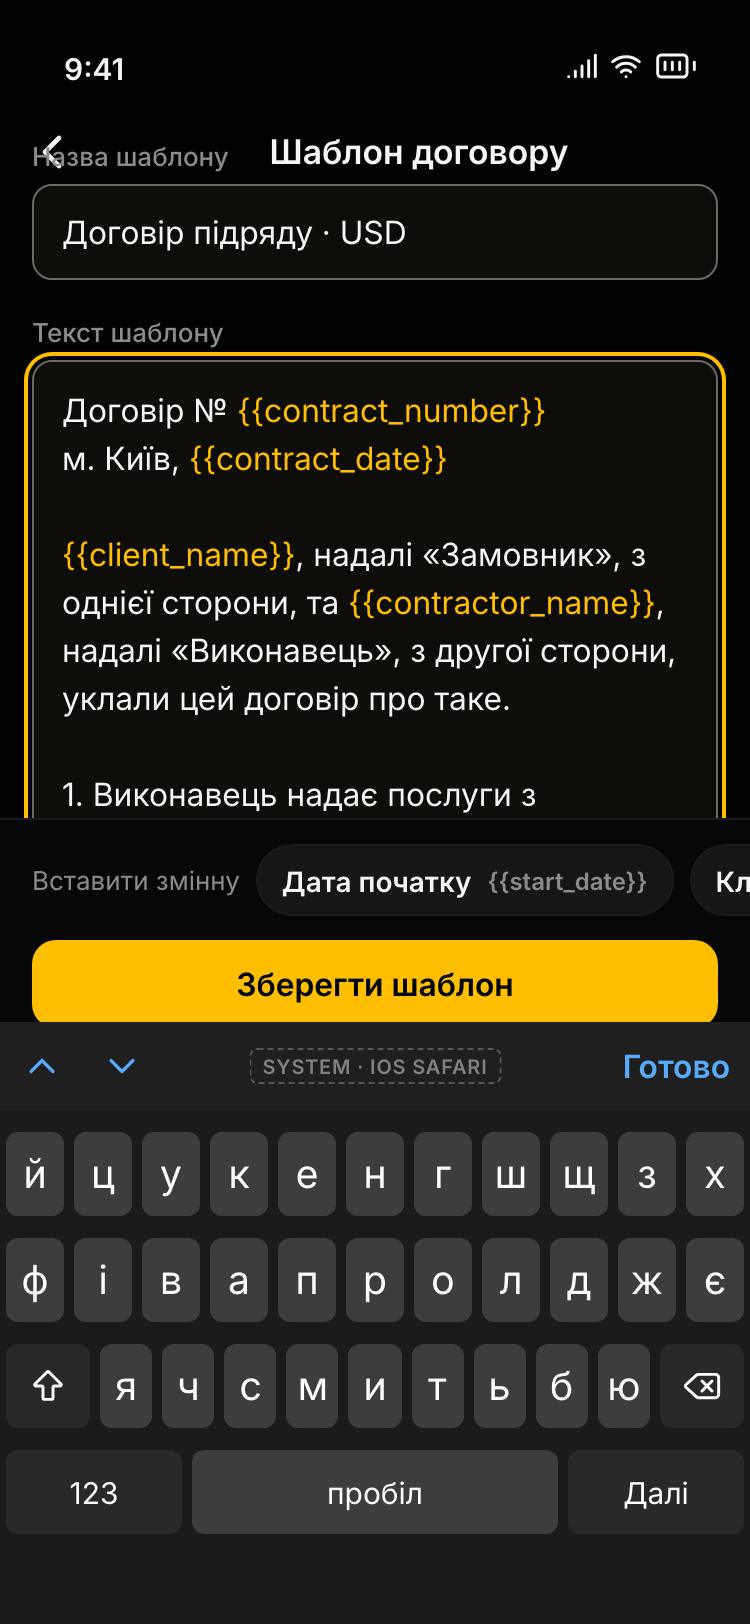
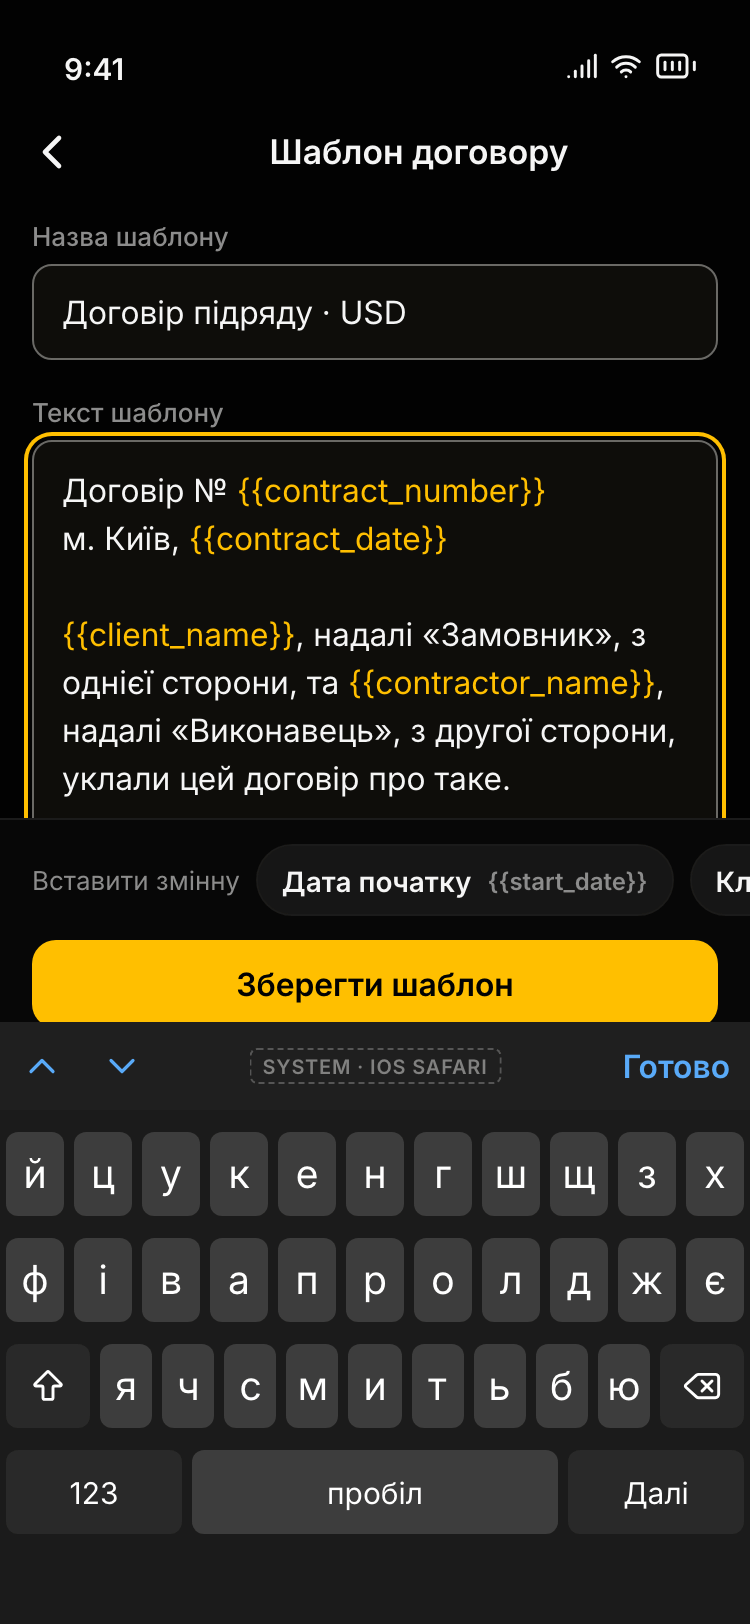
wip: design foundation v2 fix4 B — picker, text editor, defaults, parsing, tablet panel docs; medium sheet close

Changed region(s): [[0.0307, 0.0924, 0.9813, 0.5234], [0.46, 0.1232, 0.552, 0.1539]]

diff --git a/docs/design/screens/_foundation/primitives-v2.md b/docs/design/screens/_foundation/primitives-v2.md
@@ -21,25 +21,27 @@
 
 ## 1. Component map
 
-| Primitive                 | Build on                                                    | New?                         | Frames                                                                                                                                                                                                     |
-| ------------------------- | ----------------------------------------------------------- | ---------------------------- | ---------------------------------------------------------------------------------------------------------------------------------------------------------------------------------------------------------- |
-| Bottom sheet (detents)    | Base UI Drawer (approved stack change, spec §4)             | NEW `Sheet` mobile variant   | `sheet-medium-375`, `sheet-medium-320`, `sheet-large-375`                                                                                                                                                  |
-| Action sheet (confirm)    | Base UI Drawer + `ui/alert-dialog.tsx` semantics            | NEW variant                  | `sheet-confirm-375`                                                                                                                                                                                        |
-| Side panel                | `ui/sheet.tsx` (side = right)                               | restyle                      | `sheet-panel-768`, `sheet-panel-1024`, `sheet-panel-1440`                                                                                                                                                  |
-| Confirm dialog            | `ui/alert-dialog.tsx`                                       | restyle                      | `sheet-confirm-dialog-1024`                                                                                                                                                                                |
-| List row                  | —                                                           | NEW `ListRow`                | `listrow-variants-375`, `listrow-swipe-375`, `listrow-sticky-320`, `listrow-empty-error-375`, `listrow-768`, `listrow-1440`                                                                                |
-| Section header            | —                                                           | NEW `ListSection`            | `section-header-375`                                                                                                                                                                                       |
-| Table row states          | `ui/table.tsx`                                              | restyle                      | `listrow-table-desktop`                                                                                                                                                                                    |
-| Form field                | `ui/input.tsx`, `ui/label.tsx`                              | restyle (16 px, 48 h mobile) | `form-states-375`, `formfield-768`, `formfield-1440`                                                                                                                                                       |
-| Money field + receipt     | `ui/amount-currency-input.tsx`, `ui/image-upload-field.tsx` | restyle                      | `form-money-375`, `form-keyboard-375`, `sheet-large-375` (one canonical form: `assets/src/money-form.mjs`)                                                                                                 |
-| Segmented control, switch | `ui/segmented-toggle.tsx`, `ui/switch.tsx`                  | restyle                      | `form-money-375`, `sheet-medium-375`                                                                                                                                                                       |
-| Undo toast                | `ui/sonner.tsx`                                             | restyle                      | `toast-undo-375`, `toast-undo-768`, `toast-undo-1440`                                                                                                                                                      |
-| Save error (inline)       | `ui/alert.tsx`                                              | restyle                      | `toast-error-definite-375`, `toast-error-offline-375`, `toast-error-unknown-375`, `toast-error-unknown-list-375`                                                                                           |
-| Upload states + indicator | `ui/upload-progress.tsx`                                    | restyle + global pill (NEW)  | `upload-states-375`, `upload-pill-armed-375`, `upload-pill-saved-375`, `upload-pill-failed-375`, `toast-pill-stack-375`, `state-page-kill-375`, `listrow-draft-375`, `upload-pill-768`, `upload-pill-1440` |
-| Skeletons                 | `ui/skeleton.tsx`                                           | restyle                      | `skeleton-mobile-375`, `skeleton-768`, `skeleton-1440`, `skeleton-table-desktop`                                                                                                                           |
-| Charts                    | the existing chart library on `--chart-*` tokens            | restyle                      | `chart-mobile-375`, `chart-mobile-scrolled-375`, `chart-mobile-320`, `chart-desktop`                                                                                                                       |
-| Pull-to-refresh           | —                                                           | NEW `PullToRefresh`          | `ptr-pulling-375`, `ptr-armed-375`, `ptr-refreshing-375`, `ptr-done-375`                                                                                                                                   |
-| Transitions               | View Transitions API + `motion` (`m.*`, LazyMotion)         | NEW                          | `transition-storyboard`                                                                                                                                                                                    |
+| Primitive                 | Build on                                                                                                      | New?                         | Frames                                                                                                                                                                                                     |
+| ------------------------- | ------------------------------------------------------------------------------------------------------------- | ---------------------------- | ---------------------------------------------------------------------------------------------------------------------------------------------------------------------------------------------------------- |
+| Bottom sheet (detents)    | Base UI Drawer (approved stack change, spec §4)                                                               | NEW `Sheet` mobile variant   | `sheet-medium-375`, `sheet-medium-320`, `sheet-large-375`                                                                                                                                                  |
+| Action sheet (confirm)    | Base UI Drawer + `ui/alert-dialog.tsx` semantics                                                              | NEW variant                  | `sheet-confirm-375`                                                                                                                                                                                        |
+| PickerSheet               | Base UI Drawer + `ui/command.tsx` (search, listbox); replaces `ui/select.tsx` / `ui/role-select.tsx` on touch | NEW variant                  | `picker-sheet-375`                                                                                                                                                                                         |
+| TextEditor                | `ui/textarea.tsx` (autosize) + a chip row on `visualViewport`                                                 | NEW composite                | `form-longtext-375`                                                                                                                                                                                        |
+| Side panel                | `ui/sheet.tsx` (side = right)                                                                                 | restyle                      | `sheet-panel-768`, `sheet-panel-1024`, `sheet-panel-1440`                                                                                                                                                  |
+| Confirm dialog            | `ui/alert-dialog.tsx`                                                                                         | restyle                      | `sheet-confirm-dialog-1024`                                                                                                                                                                                |
+| List row                  | —                                                                                                             | NEW `ListRow`                | `listrow-variants-375`, `listrow-swipe-375`, `listrow-sticky-320`, `listrow-empty-error-375`, `listrow-768`, `listrow-1440`                                                                                |
+| Section header            | —                                                                                                             | NEW `ListSection`            | `section-header-375`                                                                                                                                                                                       |
+| Table row states          | `ui/table.tsx`                                                                                                | restyle                      | `listrow-table-desktop`                                                                                                                                                                                    |
+| Form field                | `ui/input.tsx`, `ui/label.tsx`                                                                                | restyle (16 px, 48 h mobile) | `form-states-375`, `formfield-768`, `formfield-1440`                                                                                                                                                       |
+| Money field + receipt     | `ui/amount-currency-input.tsx`, `ui/image-upload-field.tsx`                                                   | restyle                      | `form-money-375`, `form-keyboard-375`, `sheet-large-375` (one canonical form: `assets/src/money-form.mjs`)                                                                                                 |
+| Segmented control, switch | `ui/segmented-toggle.tsx`, `ui/switch.tsx`                                                                    | restyle                      | `form-money-375`, `sheet-medium-375`                                                                                                                                                                       |
+| Undo toast                | `ui/sonner.tsx`                                                                                               | restyle                      | `toast-undo-375`, `toast-undo-768`, `toast-undo-1440`                                                                                                                                                      |
+| Save error (inline)       | `ui/alert.tsx`                                                                                                | restyle                      | `toast-error-definite-375`, `toast-error-offline-375`, `toast-error-unknown-375`, `toast-error-unknown-list-375`                                                                                           |
+| Upload states + indicator | `ui/upload-progress.tsx`                                                                                      | restyle + global pill (NEW)  | `upload-states-375`, `upload-pill-armed-375`, `upload-pill-saved-375`, `upload-pill-failed-375`, `toast-pill-stack-375`, `state-page-kill-375`, `listrow-draft-375`, `upload-pill-768`, `upload-pill-1440` |
+| Skeletons                 | `ui/skeleton.tsx`                                                                                             | restyle                      | `skeleton-mobile-375`, `skeleton-768`, `skeleton-1440`, `skeleton-table-desktop`                                                                                                                           |
+| Charts                    | the existing chart library on `--chart-*` tokens                                                              | restyle                      | `chart-mobile-375`, `chart-mobile-scrolled-375`, `chart-mobile-320`, `chart-desktop`                                                                                                                       |
+| Pull-to-refresh           | —                                                                                                             | NEW `PullToRefresh`          | `ptr-pulling-375`, `ptr-armed-375`, `ptr-refreshing-375`, `ptr-done-375`                                                                                                                                   |
+| Transitions               | View Transitions API + `motion` (`m.*`, LazyMotion)                                                           | NEW                          | `transition-storyboard`                                                                                                                                                                                    |
 
 ---
 
@@ -47,8 +49,9 @@
 
 **Medium sheet** (`sheet-medium-*`): filters and short forms (≤ 4 fields). Top at ≈ 46% of the
 viewport (36% at 320 so the content fits), `--radius-sheet` corners, drag handle (36 × 5, hit area
-44), title row with «Скинути» on the left and nothing on the right; the apply action «Показати 48»
-sits in the bottom bar. Drag up expands to large; drag down past 30% or a fling dismisses. Scrim
+44), title row with «Скинути» on the left (resets the filters to their defaults) and a 44 px ✕ on the
+right (closes and **discards unapplied filter changes**); the apply action «Показати 48» sits in the
+bottom bar. Drag up expands to large; drag down past 30% or a fling dismisses. Scrim
 `--scrim`.
 
 **Large sheet / `ResponsiveSheet`** (`sheet-large-375`): long forms and edit. Full height minus the
@@ -58,13 +61,25 @@ keyboard when it is open. The pushed form page (`form-money-375`) uses the same 
 is **always enabled** except while its own request is in flight (§4 Submit). **A dirty form asks
 before it closes** (drag, scrim, Скасувати) with an action sheet; an armed save is the exception (§4).
 
+**PickerSheet** (`picker-sheet-375`, project picker over the money form, keyboard closed): one medium
+sheet for every single choice from a long list: **project, user, currency, role**. Title names the field
+(«Проєкт»), 44 px ✕ on the right (closes, nothing changes). A **sticky 44 px search** (16 px text) sits
+under the title; rows are 56 px `role="option"` inside a `role="listbox"`; the current value carries a
+yellow checkmark and `aria-selected="true"`. Order: for project, the «Без проєкту» row first; then
+«Нещодавні» (last used on this device, newest first); then the full list alphabetically. A tap selects
+and closes the sheet; focus returns to the field. Currency and role are short: same sheet, no search
+under 8 options.
+
 **Action sheet** (`sheet-confirm-375`): destructive confirm on touch. Message names the object
 («Видалити транзакцію «Оренда офісу»?»), destructive action in `text-destructive`, «Скасувати» as a
 separate bold group. `role="alertdialog"`, focus starts on «Скасувати».
 
 **Side panel** (`sheet-panel-*`): preview and edit on tablet / desktop. Width 400 (tablet, touch
 heights 48 / 44), 420 (1024), 480 (≥ 1440). Header with title + close; sticky footer with the primary
-action and the hints «Esc» / «⌘↵». The table stays interactive next to it at ≥ 1440.
+action. **The tablet money panel (`sheet-panel-768`) reuses the canonical `moneyBody()` of the phone
+form** at 400 px: the same field order, segmented type, currency pill, receipt card and defaults row,
+with «Скасувати» on the left and «Зберегти» in the footer. Shortcut hints («Esc», «⌘↵») show **only
+under `(pointer: fine)`**: the 1024 / 1440 panels have them, the touch tablet does not. The table stays interactive next to it at ≥ 1440.
 
 **Confirm dialog** (`sheet-confirm-dialog-1024`): 420 px centred alert dialog; initial focus on
 «Скасувати»; Enter does not trigger the destructive action.
@@ -125,7 +140,27 @@ The optional fields are collapsed into a 44 px defaults row that names what will
 без проєкту · змінити»; a tap expands Дата / Проєкт / Опис. Receipt: one dashed tile «Додати чек —
 Камера, фото або файл · до 10 МБ» (one file input without `capture`, so iOS offers its native chooser);
 once added, a card with the thumbnail, the status line, **«Замінити»** and **«✕»** (`aria-label`
-«Видалити чек»), both 44 × 44.
+«Видалити чек»), both 44 × 44. The pushed page (`form-money-375`) renders the same defaults row as the
+sheet, not expanded fields.
+
+- **Defaults** (what the defaults row names): type and currency = the last used **on this device**;
+  project = the screen the form was opened from (a project page), otherwise «без проєкту»; date =
+  today. The row always states the values that will be saved.
+- **Date field:** a native `<input type="date">` on touch, inside the 48 px field (the OS picker, no
+  custom calendar on a phone); the desktop keeps the existing date picker.
+- **Amount parsing:** accept «,» and «.» as the decimal mark; strip spaces (including the narrow
+  no-break space a paste may carry); at most 2 decimals (a third is refused as you type, not rounded);
+  on blur re-format in uk style («1 250,50»). The value sent is the parsed number, never the display
+  string.
+- **Pickers** for project, user, currency and role are the PickerSheet (§2).
+
+**TextEditor** (`form-longtext-375`, keyboard open; contract templates with `{{placeholders}}`): a
+pushed page; the text area **autosizes** to its content (no inner scroll; the page scrolls), 16 / 24
+text, placeholders shown in yellow. Above the keyboard, a horizontally scrolling chip row «Вставити
+змінну» (36 px chips inside a 44 px row, each with its uk label and the token, `aria-label` «Вставити
+змінну <label>»); a tap inserts the token at the caret. The bottom save bar («Зберегти шаблон») rides
+the keyboard on `visualViewport`, chips on top of it. **A dirty close asks** («Вийти без збереження?»
+with «Вийти» and «Залишитися»); nothing is persisted client-side.
 
 **Keyboard** (`form-keyboard-375`, `shell-v2/quick-add-txn-keyboard-375`): the content scrolls so the
 focused field sits above the keyboard, and the submit bar rides on the keyboard. **The accessory bar
@@ -256,7 +291,7 @@ instant, sheet 280 ms up / 150 ms down, desktop 150 ms crossfade, reduced motion
 `sheet-medium-375` · `sheet-medium-320` · `sheet-large-375` · `sheet-confirm-375` ·
 `listrow-variants-375` · `listrow-swipe-375` · `listrow-sticky-320` · `listrow-empty-error-375` ·
 `listrow-768` · `listrow-1440` · `section-header-375` · `form-states-375` · `formfield-768` ·
-`formfield-1440` · `form-money-375` · `form-keyboard-375` · `sheet-panel-768` · `sheet-panel-1024` ·
+`formfield-1440` · `form-money-375` · `form-keyboard-375` · `picker-sheet-375` · `form-longtext-375` · `sheet-panel-768` · `sheet-panel-1024` ·
 `sheet-panel-1440` · `sheet-confirm-dialog-1024` · `listrow-table-desktop` · `toast-undo-375` ·
 `toast-undo-768` · `toast-undo-1440` · `toast-error-definite-375` · `toast-error-offline-375` ·
 `toast-error-unknown-375` · `toast-error-unknown-list-375` · `upload-states-375` · `upload-pill-armed-375` ·
